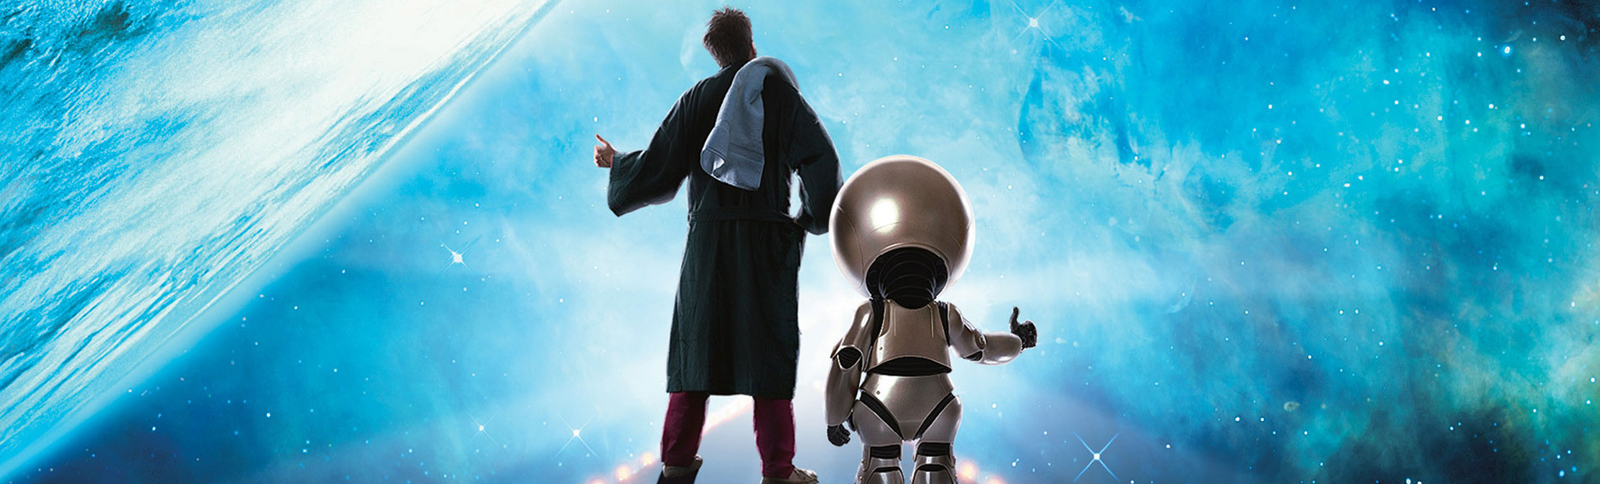
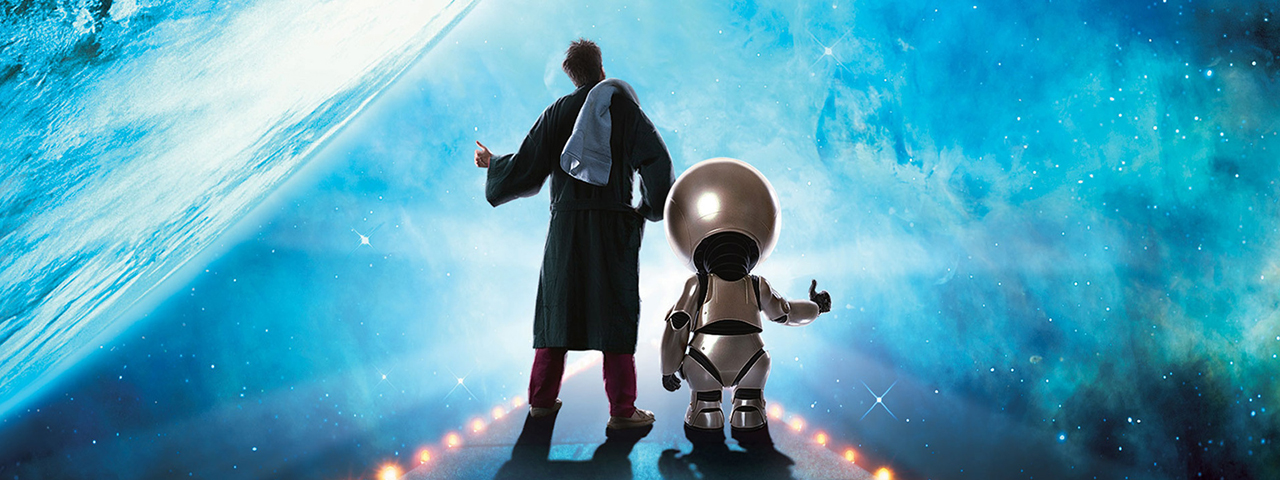
Nouvelle présentation pour l'accueil

diff --git a/css/style.css b/css/style.css
@@ -705,16 +705,12 @@
 
 /* Banner */
 
-	#banner {
-		background-image: url("../images/banner.jpg");
-		background-position: center center;
-		background-size: cover;
-		height: 28em;
+	.banner {
 		text-align: center;
 		position: relative;
 	}
 
-		#banner header {
+		.banner header {
 			position: absolute;
 			bottom: 0;
 			left: 0;
@@ -725,26 +721,26 @@
 			padding: 1.5em 0;
 		}
 
-			#banner header h2 {
+			.banner header h2 {
 				display: inline-block;
 				margin: 0;
 				font-size: 1.25em;
 				vertical-align: middle;
 			}
 
-				#banner header h2 em {
+				.banner header h2 em {
 					opacity: 0.75;
 				}
 
-				#banner header h2 a {
+				.banner header h2 a {
 					border-bottom-color: rgba(255, 255, 255, 0.5);
 				}
 
-					#banner header h2 a:hover {
+					.banner header h2 a:hover {
 						border-bottom-color: transparent;
 					}
 
-			#banner header .button {
+			.banner header .button {
 				vertical-align: middle;
 				margin-left: 1em;
 			}
@@ -847,6 +843,12 @@
 
 	/*Personnal adds*/
 
+	#bannerhome {
+		background-image: url("../images/banner.jpg");
+		background-position: center center;
+		background-size: cover;
+		height: 480px;
+	}
 
 	.galaxy {
 		height: 250px;

diff --git a/index.html b/index.html
@@ -65,7 +65,7 @@
 		</div>
 
 		<!-- Banner -->
-		<section id="banner">
+		<section class="banner" id="bannerhome">
 			<header>
 				<h2>H2G2 : <em>Le guide de l'auto-stoppeur intergalactique</em></h2> <br/>
 				<a href="explore.html" class="button">Explorer</a>
@@ -77,8 +77,8 @@
 		<section class="wrapper style2">
 			<div class="container">
 				<header class="major">
-					<h2>A gigantic heading you can use for whatever</h2>
-					<p>With a much smaller subtitle hanging out just below it</p>
+					<h2>Trouver la planète sur laquelle vous vous épanouirez</h2>
+					<p>Une sélection large et variée qui vous comblera</p>
 				</header>
 			</div>
 		</section>
